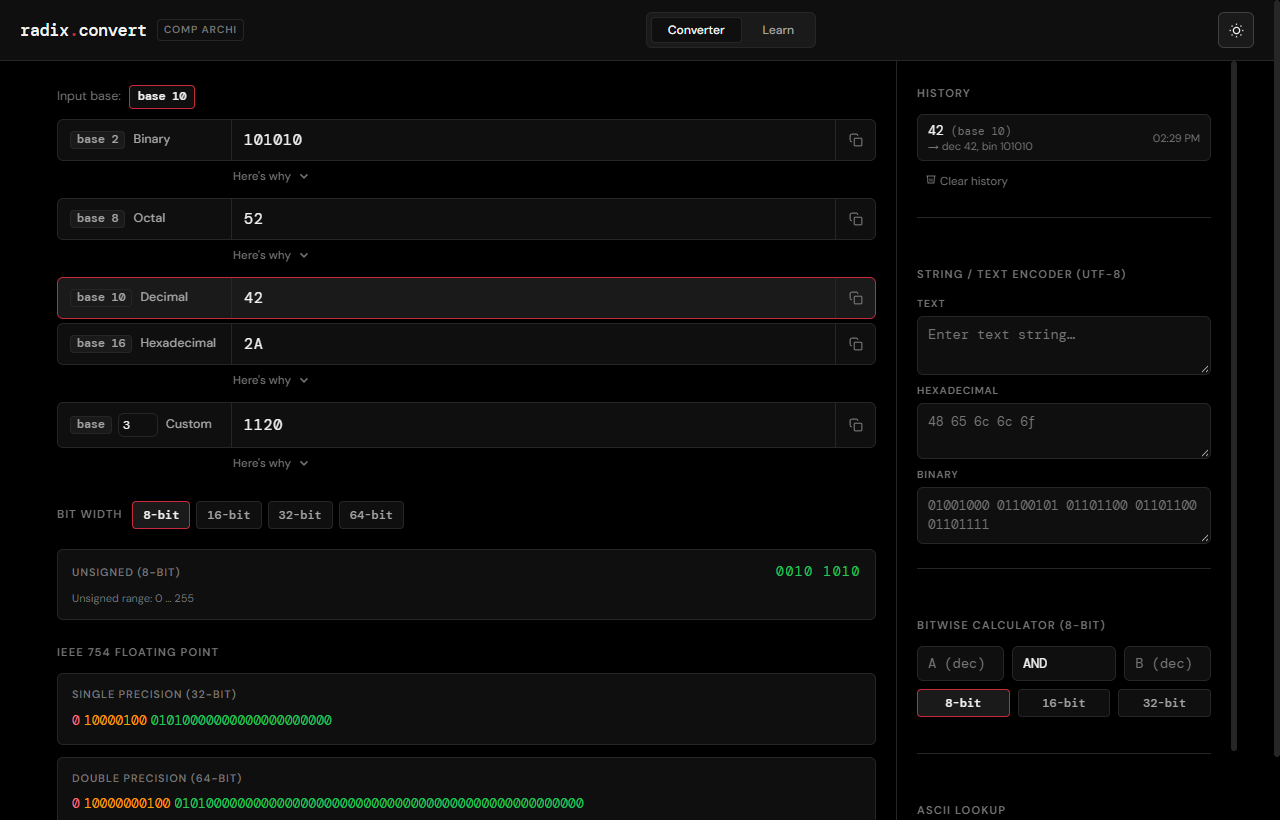
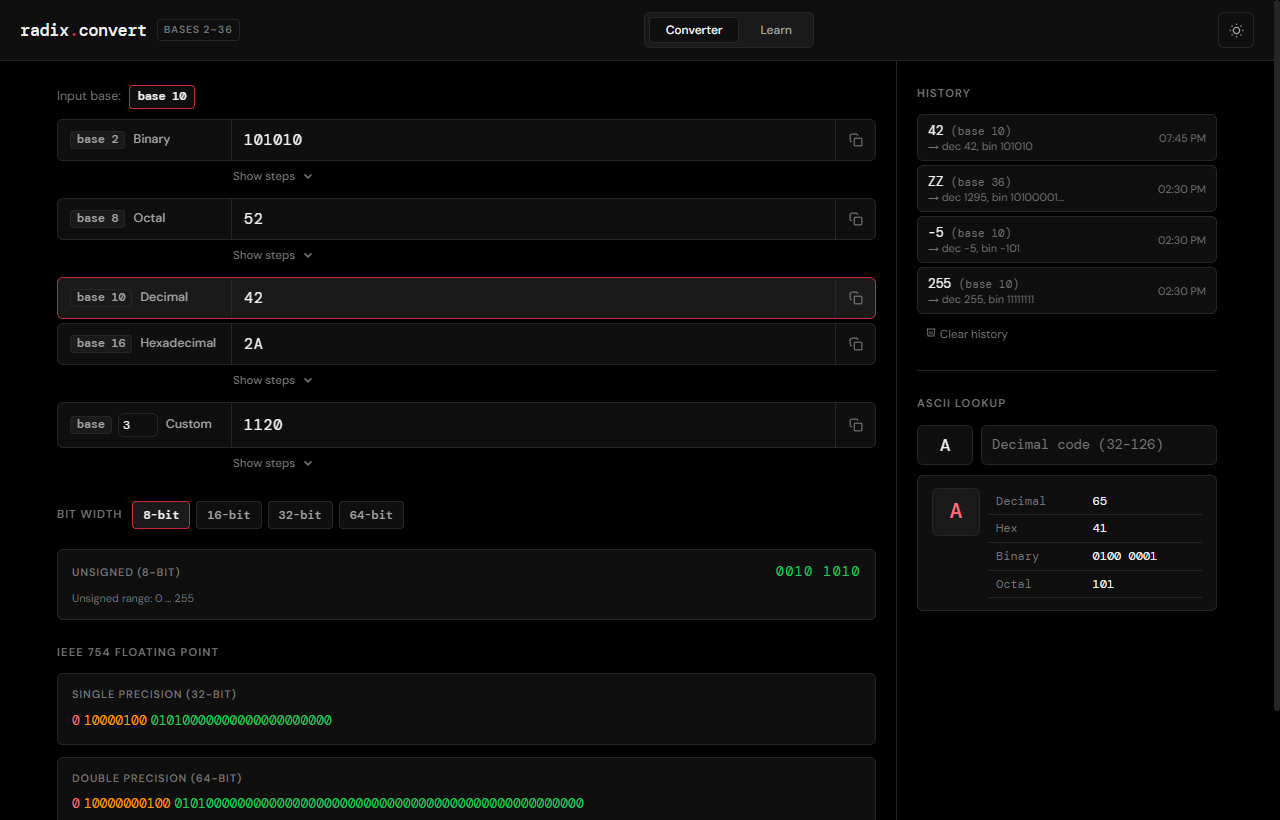
docs: refresh README and screenshot for the trimmed app

diff --git a/README.md b/README.md
@@ -15,9 +15,6 @@ optional walkthrough of the arithmetic behind each conversion.
 - **Bit-width view** at 8, 16, 32, and 64 bits, including two's complement for
   negative values.
 - **IEEE 754** single- and double-precision breakdown of the decimal value.
-- **Bitwise calculator** (AND, OR, XOR, NOT, SHL, SHR) with fixed-width wrapping.
-- **String encoder** between text, UTF-8 hex, and binary, with a per-byte
-  explanation.
 - **ASCII lookup** in both directions.
 - **History** of the last 10 conversions, stored locally, click to restore.
 - Dark and light themes, keyboard accessible, works offline after the first load.
@@ -28,8 +25,7 @@ Integer conversion uses `BigInt`, so results stay exact well past
 `Number.MAX_SAFE_INTEGER`. Fractional conversion uses exact rational arithmetic
 rather than floating point, which means `0.1` decimal converts to
 `0.0001100110` binary (the repeating expansion truncated at 10 digits) instead of
-drifting. Bitwise operations wrap explicitly to the selected width instead of
-relying on JavaScript's signed 32-bit operators.
+drifting. Bit-width views use `BigInt` too, so 64-bit two's complement stays exact.
 
 ## Development
 
@@ -52,14 +48,13 @@ src/
     StepPanel.jsx         collapsible worked example
     BitWidthSelector.jsx  unsigned and two's complement views
     Ieee754Viewer.jsx     32/64-bit float breakdown
-    ExtrasContainer.jsx   string encoder, bitwise calculator, ASCII lookup
+    AsciiLookup.jsx       character/code lookup
     HistoryPanel.jsx      recent conversions
     LearnPanel.jsx        long-form explainer
     ErrorBoundary.jsx     render-error fallback
   utils/
     convert.js            arbitrary-precision radix conversion
     stepwise.js           exact step generation
-    bitwise.js            fixed-width bitwise maths
     ieee754.js            float bit fields
     ascii.js              character/code lookup
     history.js            persistence parsing and dedupe
